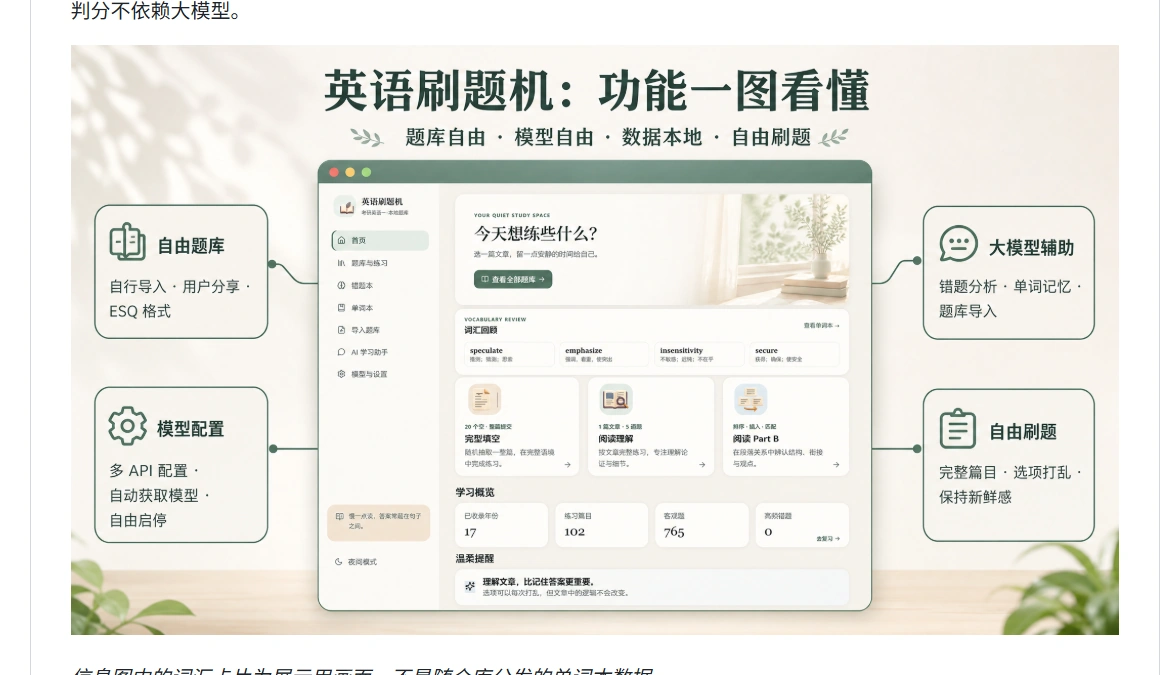
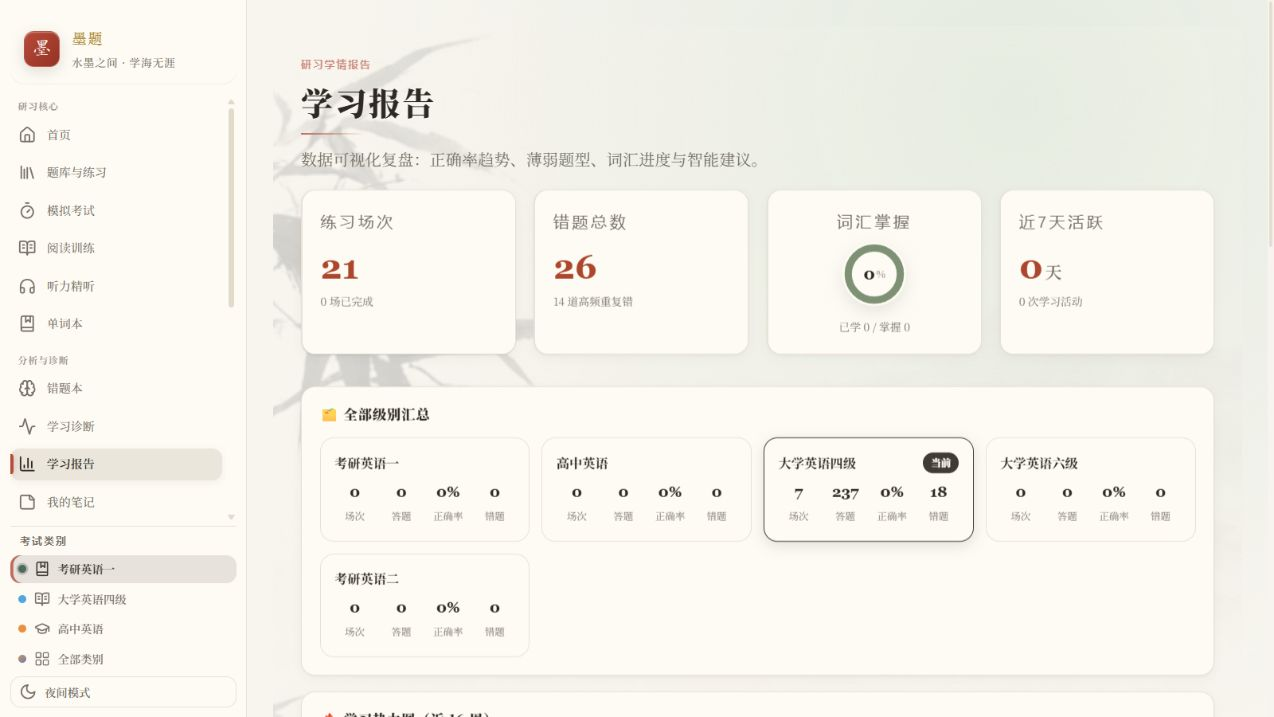
docs: 更新 README 为墨题当前界面

diff --git a/README.md b/README.md
@@ -1,12 +1,12 @@
 <div align="center">
 
-  <img src="frontend/public/assets/icons/brand-mark.png" alt="英语刷题机 Logo" width="96">
+  <img src="frontend/public/assets/icons/brand-mark.png" alt="墨题 Logo" width="96">
 
-  # 英语刷题机
+  # 墨题 · 英语刷题机
 
-  **题库自由 · 模型自由 · 数据本地 · 自由刷题**
+  **题库自由 · 模型自由 · 数据本地 · 学习闭环**
 
-  **英语刷题机（English Practice Machine）是开源的英语客观题刷题与复习工具，为考研/四六级/高考考生提供本地优先的真题练习、错题迭代、单词记忆与 AI 学习辅助——不依赖网络、不绑定服务商、数据完全自持。**
+  **墨题（英语刷题机，English Practice Machine）是开源的本地优先英语学习工作台。它把题库导入、整卷/随机练习、错题迭代、词汇复习和学习诊断连成一条闭环，面向考研英语、四六级和高考英语等客观题训练场景，并提供可选的 AI 助手、作文精批、口语陪练、知识库问答与学习智能体。**
 
   <p>
     <a href="README.en.md">English</a>
@@ -26,43 +26,43 @@
   </p>
 </div>
 
-![英语刷题机主界面](docs/images/homepage-public.png?v=20260901)
+![墨题当前主界面](docs/images/homepage-public.png?v=20260901)
 
-*README 截图使用项目自建演示题库，不包含个人 API、做题记录或单词本数据库。*
+*README 主界面图来自墨题当前本地运行界面，展示当前导航、今日计划、AI 推题、作文精批、口语陪练和学习概览等模块；截图不展示 API 密钥等敏感配置。*
 
-## 让有限的题目，也能反复刷出新鲜感
+## 墨题当前状态
 
-英语刷题机（English Practice Machine）是一款面向有长期、大量英语客观题（选择题）练习需求的学习者的 Windows 本地应用。
+墨题目前不是一套固定内容的封闭题库，而是一套可以持续导入、整理、练习和复盘的英语学习工具。项目覆盖 Windows/Web 与 Android，个人题库、练习记录、错题、词汇和模型配置默认保存在本机；基础刷题、判分和复习不依赖大模型。
 
-它不是一套内容固定、无法扩展的封闭题库，而是一套可以由使用者持续导入、整理和分享题库的英语学习工具。项目目前支持考研英语（一/二）以及大学英语四、六级的主要客观题型，并可通过开放的题库格式扩展到其他英语考试。
+使用者可以导入 Word/PDF/ESQ 题库、答案和听力附件，按题库配置、年份、卷别与题型进行整卷或整篇练习；选项打乱、错题重做、未答题定位和提交反馈帮助保持训练质量。题库也可以通过 ESQ 格式导入、导出和分享，个人练习数据不会写入分享包。
 
-使用者可以通过 API 接口接入自己选择的大模型，让模型辅助完成错题分析、单词翻译与记忆、题库考点标注、导入草稿校正和英语学习问答。完整的 API 配置与模型管理功能，让使用者可以自由选择本地模型或远程模型，而不被绑定到某一家服务。
+一次作答会沉淀为后续复习：错题本支持重做、分析和迭代递减，词汇本支持语境收藏、翻译、听写、短文填词与 FSRS 分级复习，主页、学习诊断、热力图、成就和打卡海报用于跟踪学习进度。
 
-项目采用 local-first 设计：题库、做题记录、错题本、单词本和模型配置默认保存在本机 SQLite 数据库中；基础刷题和判分不依赖大模型。
+AI 是可选的增强层，而不是刷题前提。墨题支持多个 OpenAI-compatible API 与本地模型配置，可用于聊天、错题分析、题目标注、导入草稿校正、文章练词、作文批改、口语陪练、RAG 知识库问答和学习智能体；即使没有可用模型，核心题库、刷题、判分、错题和词汇复习仍可继续使用。
 
-![英语刷题机功能一图看懂](docs/images/feature-overview-public.webp?v=20260901)
+![墨题当前学习报告](docs/images/feature-overview-public.webp?v=20260901)
 
-*信息图中的词汇卡片为展示用画面，不是随仓库分发的单词本数据。*
+*学习报告截图来自墨题当前本地运行界面，展示全类别汇总、学习热力图、正确率趋势、词汇进度、练习趋势和智能建议。*
 
-### 📦 自由题库
+### 📚 墨题题库
 
-支持自行导入 Word 题库，也支持通过 ESQ 格式导入、导出和分享题库。不同使用者可以互相交换题库，而个人练习记录、错题、单词本、聊天记录和 API 配置不会写入分享包。
+支持导入 Word/PDF 题库、答案和听力附件，也支持通过 ESQ 格式导入、导出和分享题库。不同使用者可以互相交换题库，而个人练习记录、错题、单词本、聊天记录和 API 配置不会写入分享包。
 
-### 🤖 大模型辅助学习
+### 🧠 墨题 AI 学习辅助
 
-大模型不仅用于普通聊天，还可以辅助分析高频错题、翻译和记忆单词、标注题目考点、发现题库结构问题并提出导入校正建议。模型不能直接改写正式题库，需要用户确认的修改不会被静默执行。
+AI 不只是普通聊天入口，还可以辅助完成错题归因与学习诊断、单词翻译与文章练词、题目标注、导入草稿校正、作文精批、口语陪练和知识库问答。模型不能直接改写正式题库，需要用户确认的修改不会被静默执行。
 
-### 🔌 完整的模型配置管理
+### ⚙ 墨题模型与本地数据
 
-支持保存多个 API 配置、自动拉取可用模型、测试连接、设置默认模型、启用或停用 API，以及控制模型是否出现在选择器中。兼容本地 Ollama、LM Studio 和其他 OpenAI-compatible API 服务。
+支持保存多个 API 配置、自动拉取可用模型、测试连接、设置默认模型、启用或停用 API，以及控制模型是否出现在选择器中；兼容本地 Ollama、LM Studio 和其他 OpenAI-compatible API 服务。个人题库、练习记录、错题、词汇和模型配置默认保存在本机，数据由使用者自己掌握。
 
-### 🔁 自由刷题
+### 🔁 墨题练习与复盘
 
 随机练习始终抽取完整篇目；选项可以在每次练习前重新打乱；错题重做保留文章语境，但只要求回答曾经做错的题；错题分析只给出错误类型和复习建议，尽可能避免通过翻译或复述原题强化答案记忆。
 
 > 我们希望即使题目数量有限，每一次重新练习仍然需要理解文章、判断逻辑和重新作答，而不是把反复刷题变成机械地背答案。
 
-项目当前处于 `v2.0.0-beta.15 / 持续开发阶段`。核心刷题、错题本、单词本、AI 助手、模型辅助导入、ESQ 题库分享链路、移动端竖屏适配、安全存储加密、学习热力图与打卡海报已经可以使用；便携发布包和更多考试模板仍在完善中。公开 GitHub Actions CI 已覆盖前端类型检查/构建、后端单元测试和后端导入检查。
+项目当前处于 `v2.0.0-beta.15 / 持续开发阶段`。核心刷题与复习链路已经可用，移动端、AI 辅助学习、题库分享、安全存储和自动更新等能力正在持续打磨；更多考试模板、便携发布包和更完整的多用户隔离仍在完善中。公开 GitHub Actions CI 已覆盖前端类型检查/构建、后端单元测试和后端导入检查。
 
 **当前内置数据**：692 道客观真题（含 2026 高考英语全国 I 卷 45 题）+ **7,751 个全类别核心词汇**（高考 2,702 / 四级 1,989 / 六级 2,232 / 考研 828——含音标与真题/双语例句）。
 
@@ -540,5 +540,5 @@ corepack pnpm run build
 
 - [更新发布](https://github.com/mo9652962-ai/epm-releases/releases)
 - [题库格式规范](docs/question-bank-format.md)
-- [功能一图看懂](docs/images/feature-overview-public.webp)
+- [墨题当前学习报告截图](docs/images/feature-overview-public.webp)
 - 反馈问题 / 建议 → [Issues](https://github.com/mo9652962-ai/epm-releases/issues)
